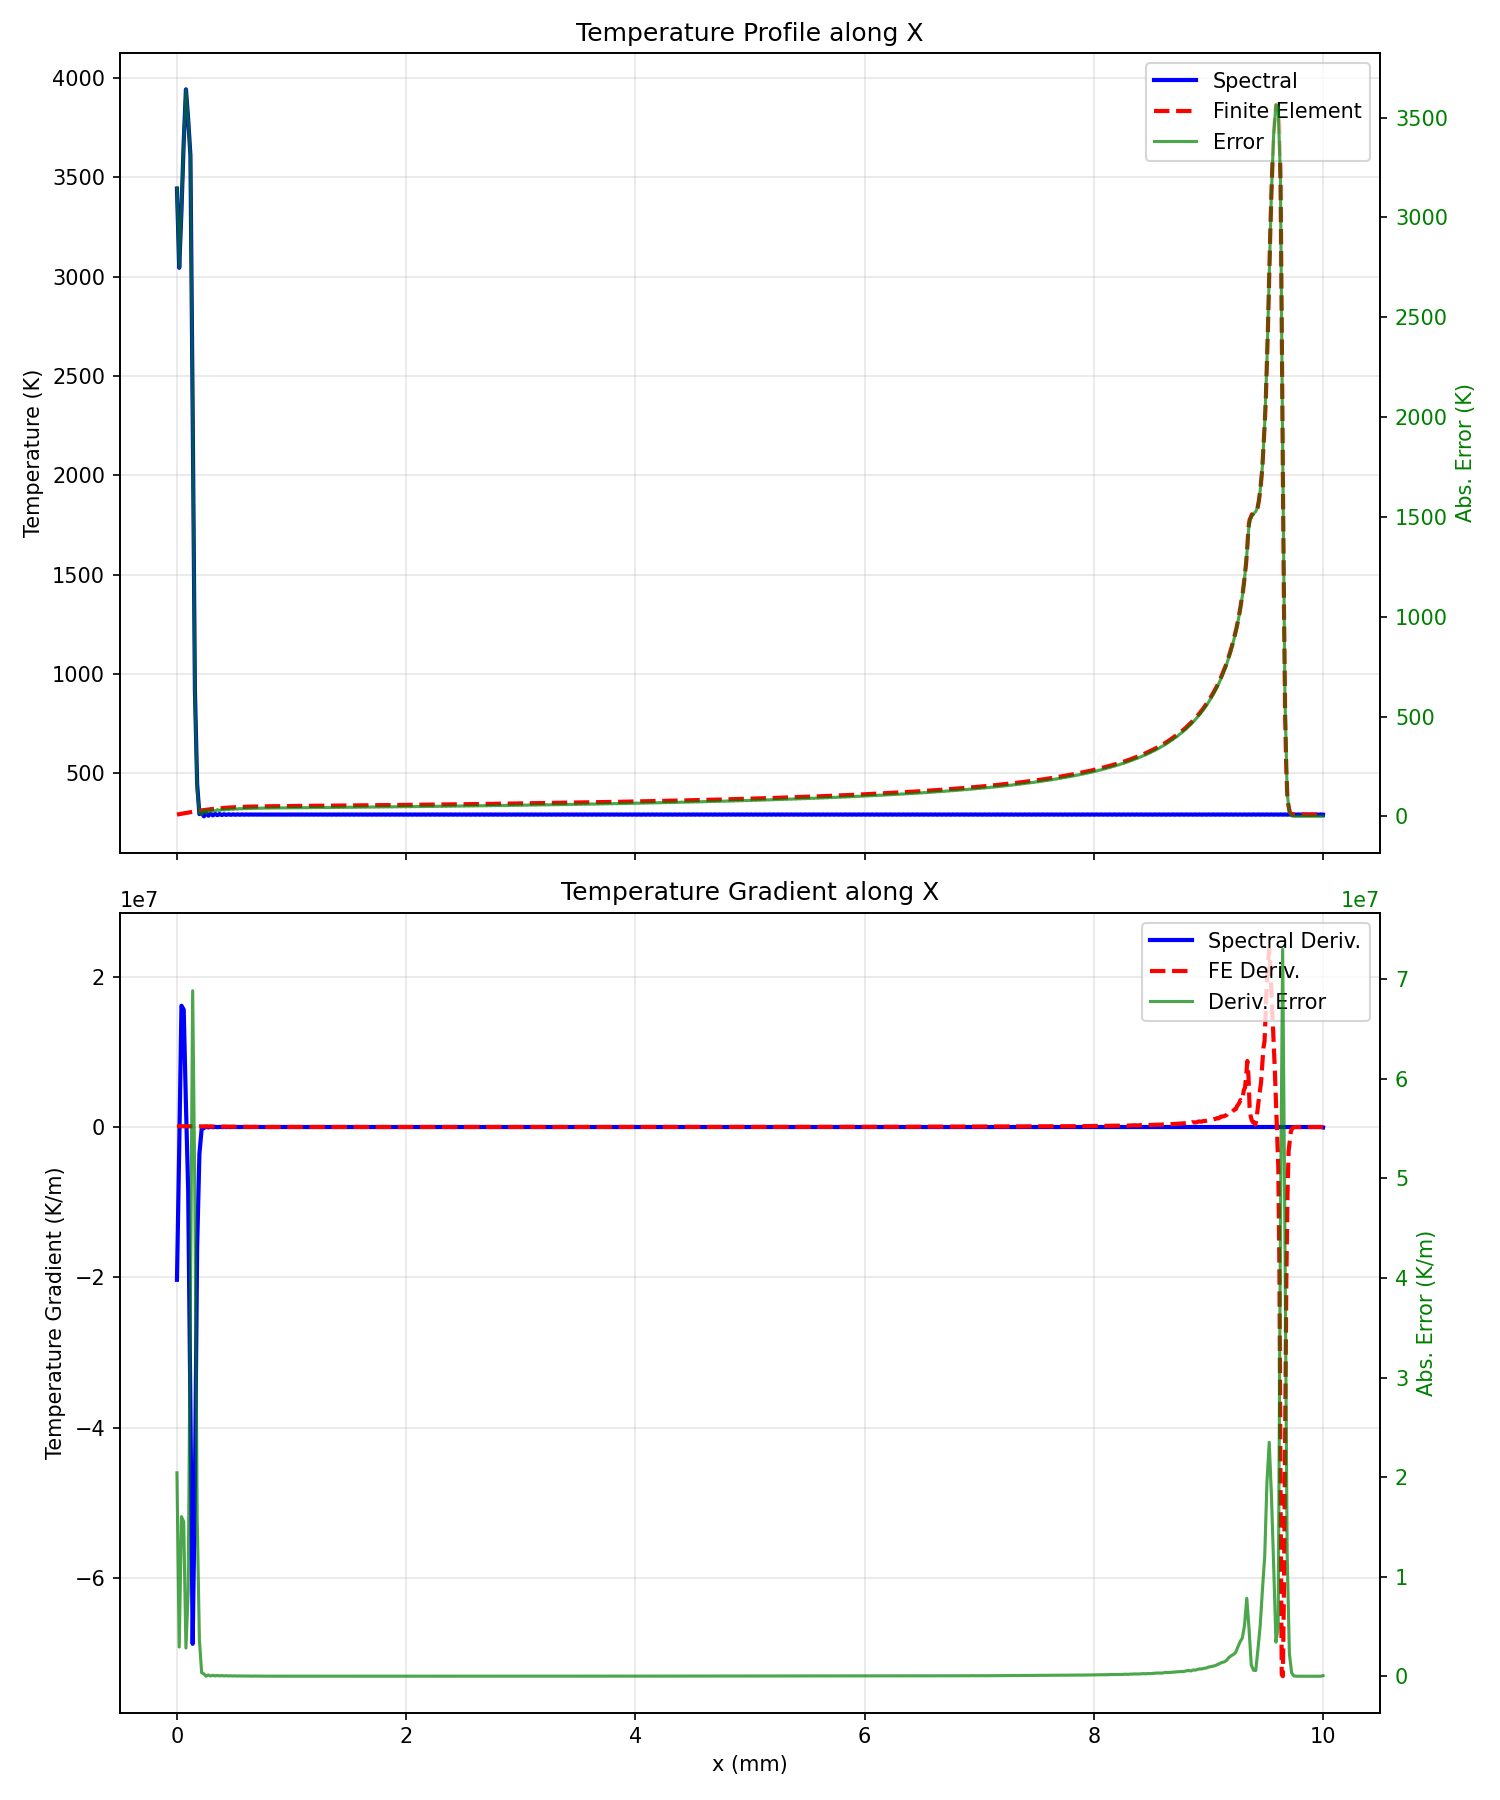
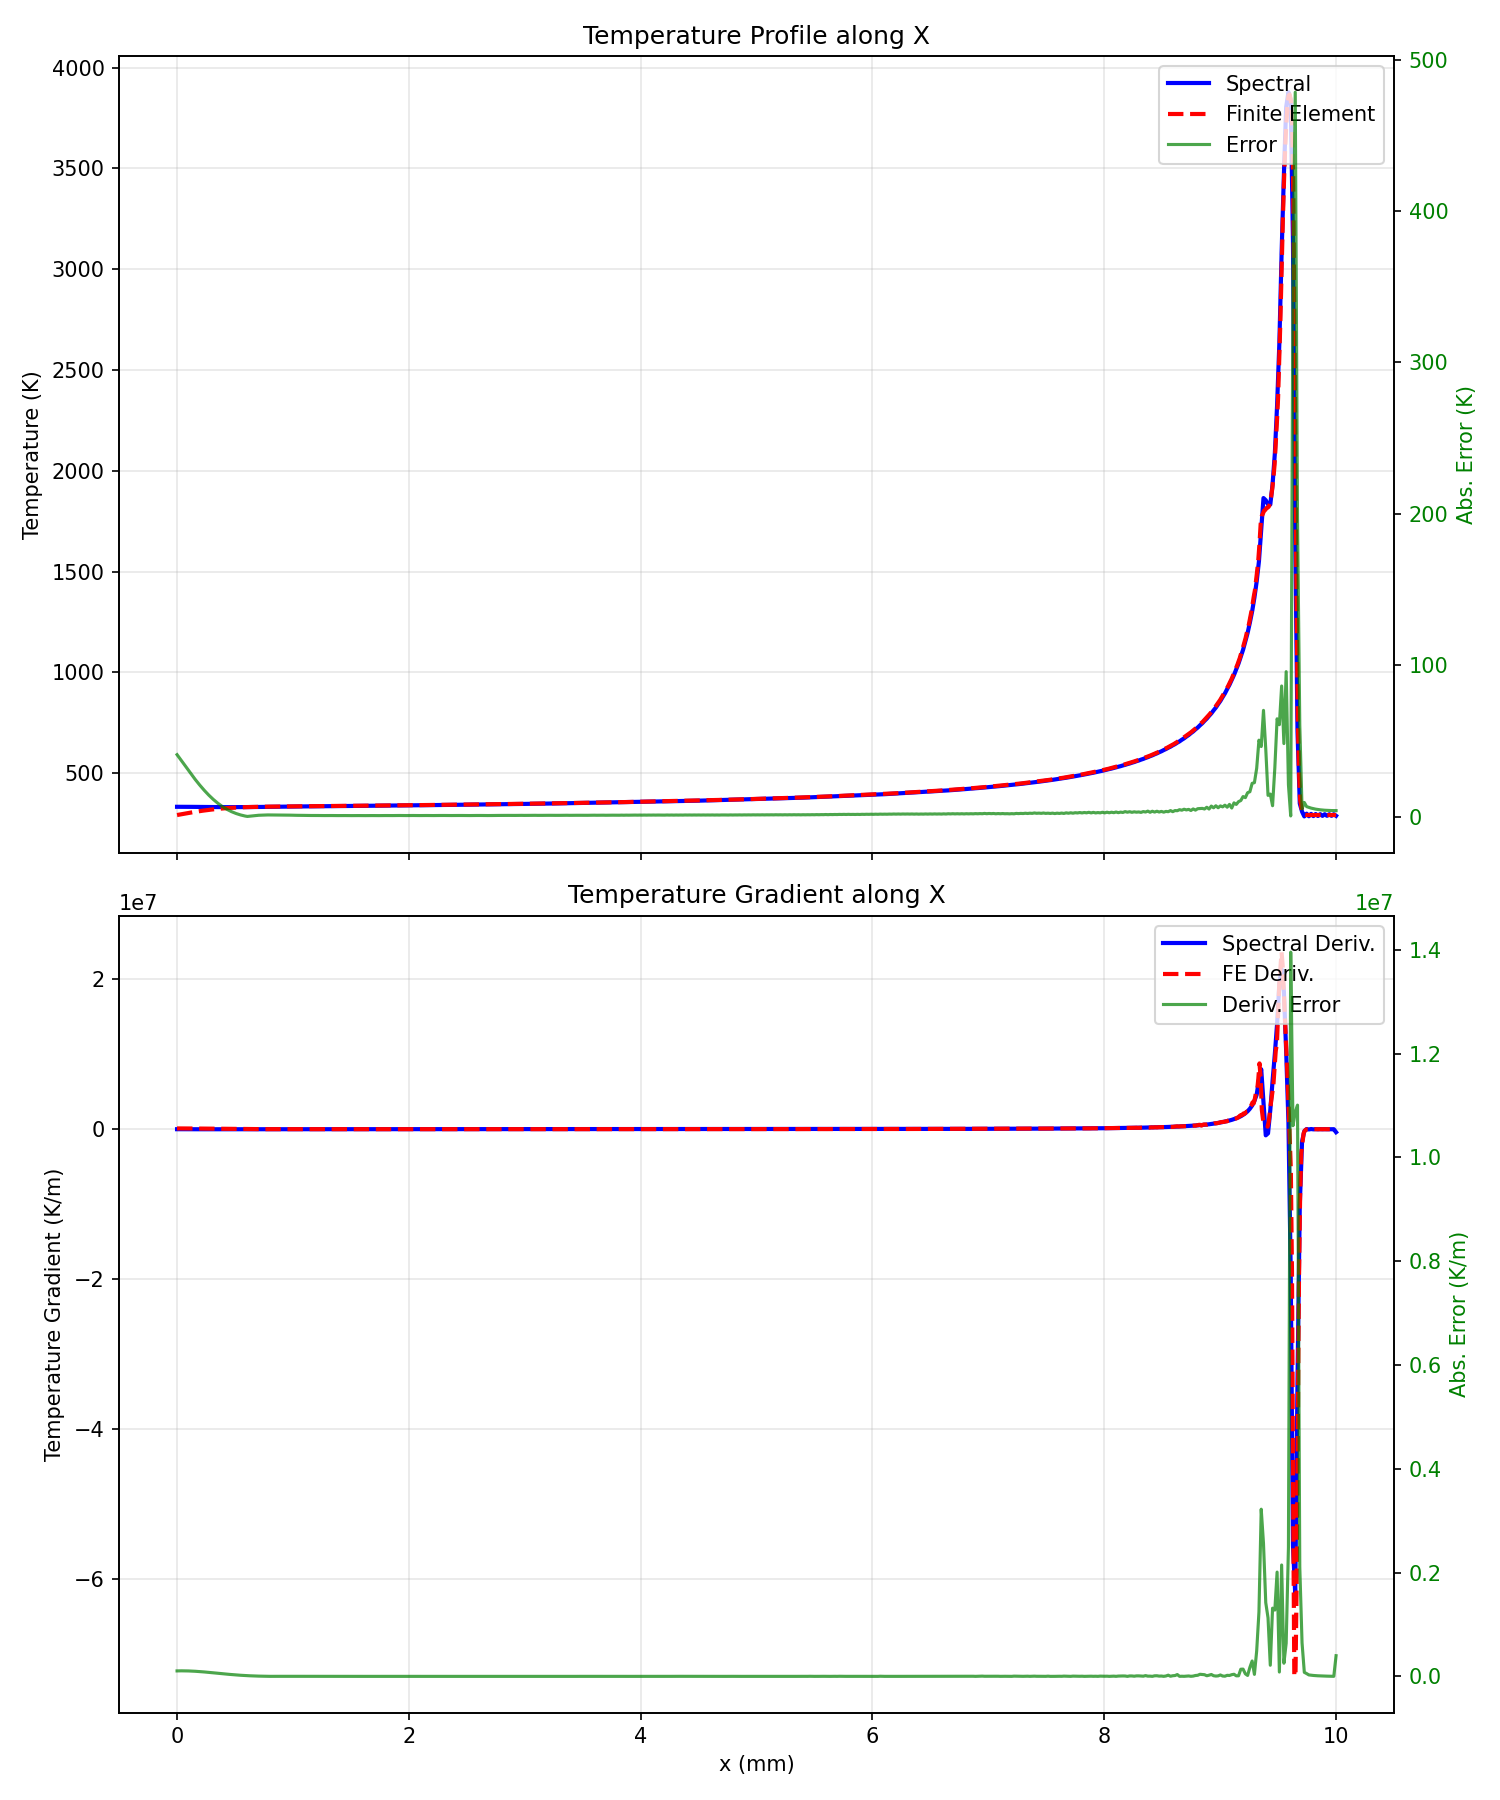
Worked fine > check sigmoid

diff --git a/test_speed_spectral.py b/test_speed_spectral.py
@@ -388,7 +388,7 @@ if __name__ == "__main__":
     Lx, Ly, Lz = 0.01, 0.005, 0.0025
     nx, ny, nz = 512, 256, 1600
     dt = 6.0e-6
-    t_final = 1.2e-4
+    t_final = 1.2e-2
     # Material properties
     rho = 7850.0
     Cp = 500.0
